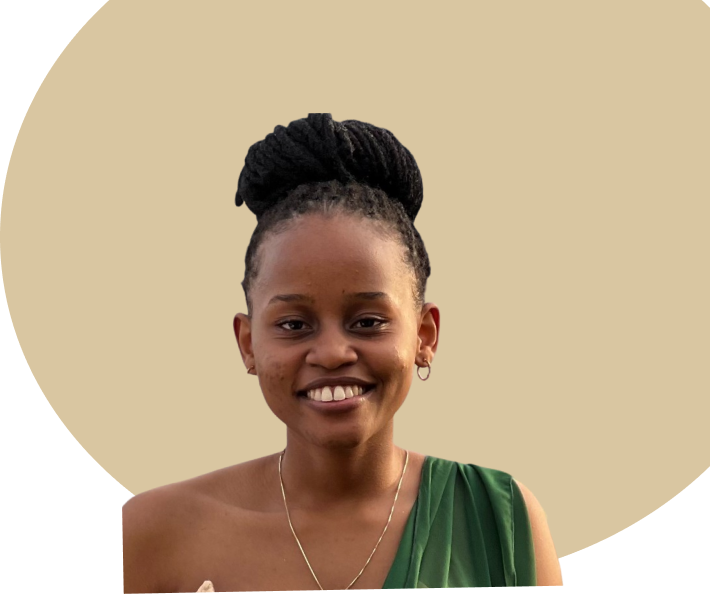
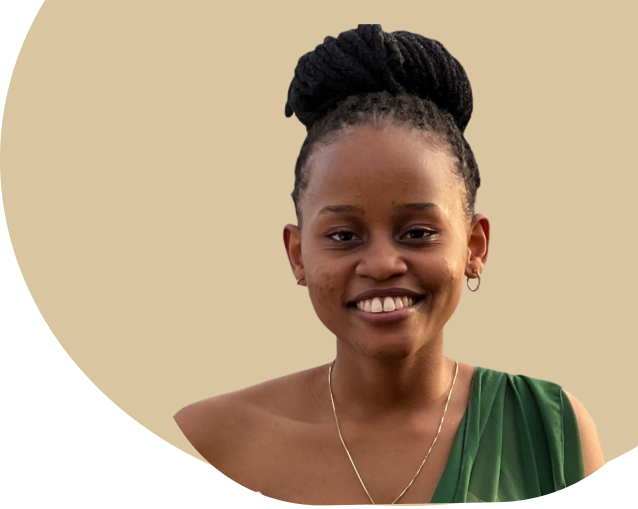
updated the css

diff --git a/index.html b/index.html
@@ -31,6 +31,14 @@
         <h2>EDUCATION</h2>
         <div>
           <div>
+            <img src="./Img/coursera.png" alt="GCU Logo" />
+            <div>
+              <h3>Coursera</h3>
+              <h4>Meta Frontend Course</h4>
+              <h5>Nov 2022 - Present</h5>
+            </div>
+          </div>
+          <div>
             <img src="./Img/ALULogo.png" alt="ALU Logo" />
             <div>
               <h3>African Leadership University</h3>
@@ -46,15 +54,6 @@
               <h5>Sept 2018 - Sept 2022</h5>
             </div>
           </div>
-          <div>
-            <img src="./Img/MGS+Logo+4.png" alt="GCU Logo" />
-            <div>
-              <h3>Maranyundo Girls School</h3>
-              <h4>PCM</h4>
-              <h5>Sept 2014 - Sept 2018</h5>
-            </div>
-          </div>
-          
         </div>
       </section>
       <section id="workExperiences">

diff --git a/index.css b/index.css
@@ -20,10 +20,8 @@ header {
 }
 
 header img {
-  width: 100%;
-  height: 200px;
-  object-fit: cover;
-}
+   height: 250px;
+ }
 
 header span {
     color: #c0a062;
@@ -42,7 +40,8 @@ header p {
   width: 345px;
 }
 header div:last-child {
-  justify-self: flex-end;
+  display: flex;
+  justify-content: flex-end;
   flex: 1 1 auto;
 }
  
@@ -77,8 +76,9 @@ h3 {
   display: flex;
 }
 #education img {
-  height: 50px;
-  width: 50px;
+  height: 100px;
+  width: 100px;
+  object-fit: contain;
 }
 #workExperiences > div {
   display: flex;
